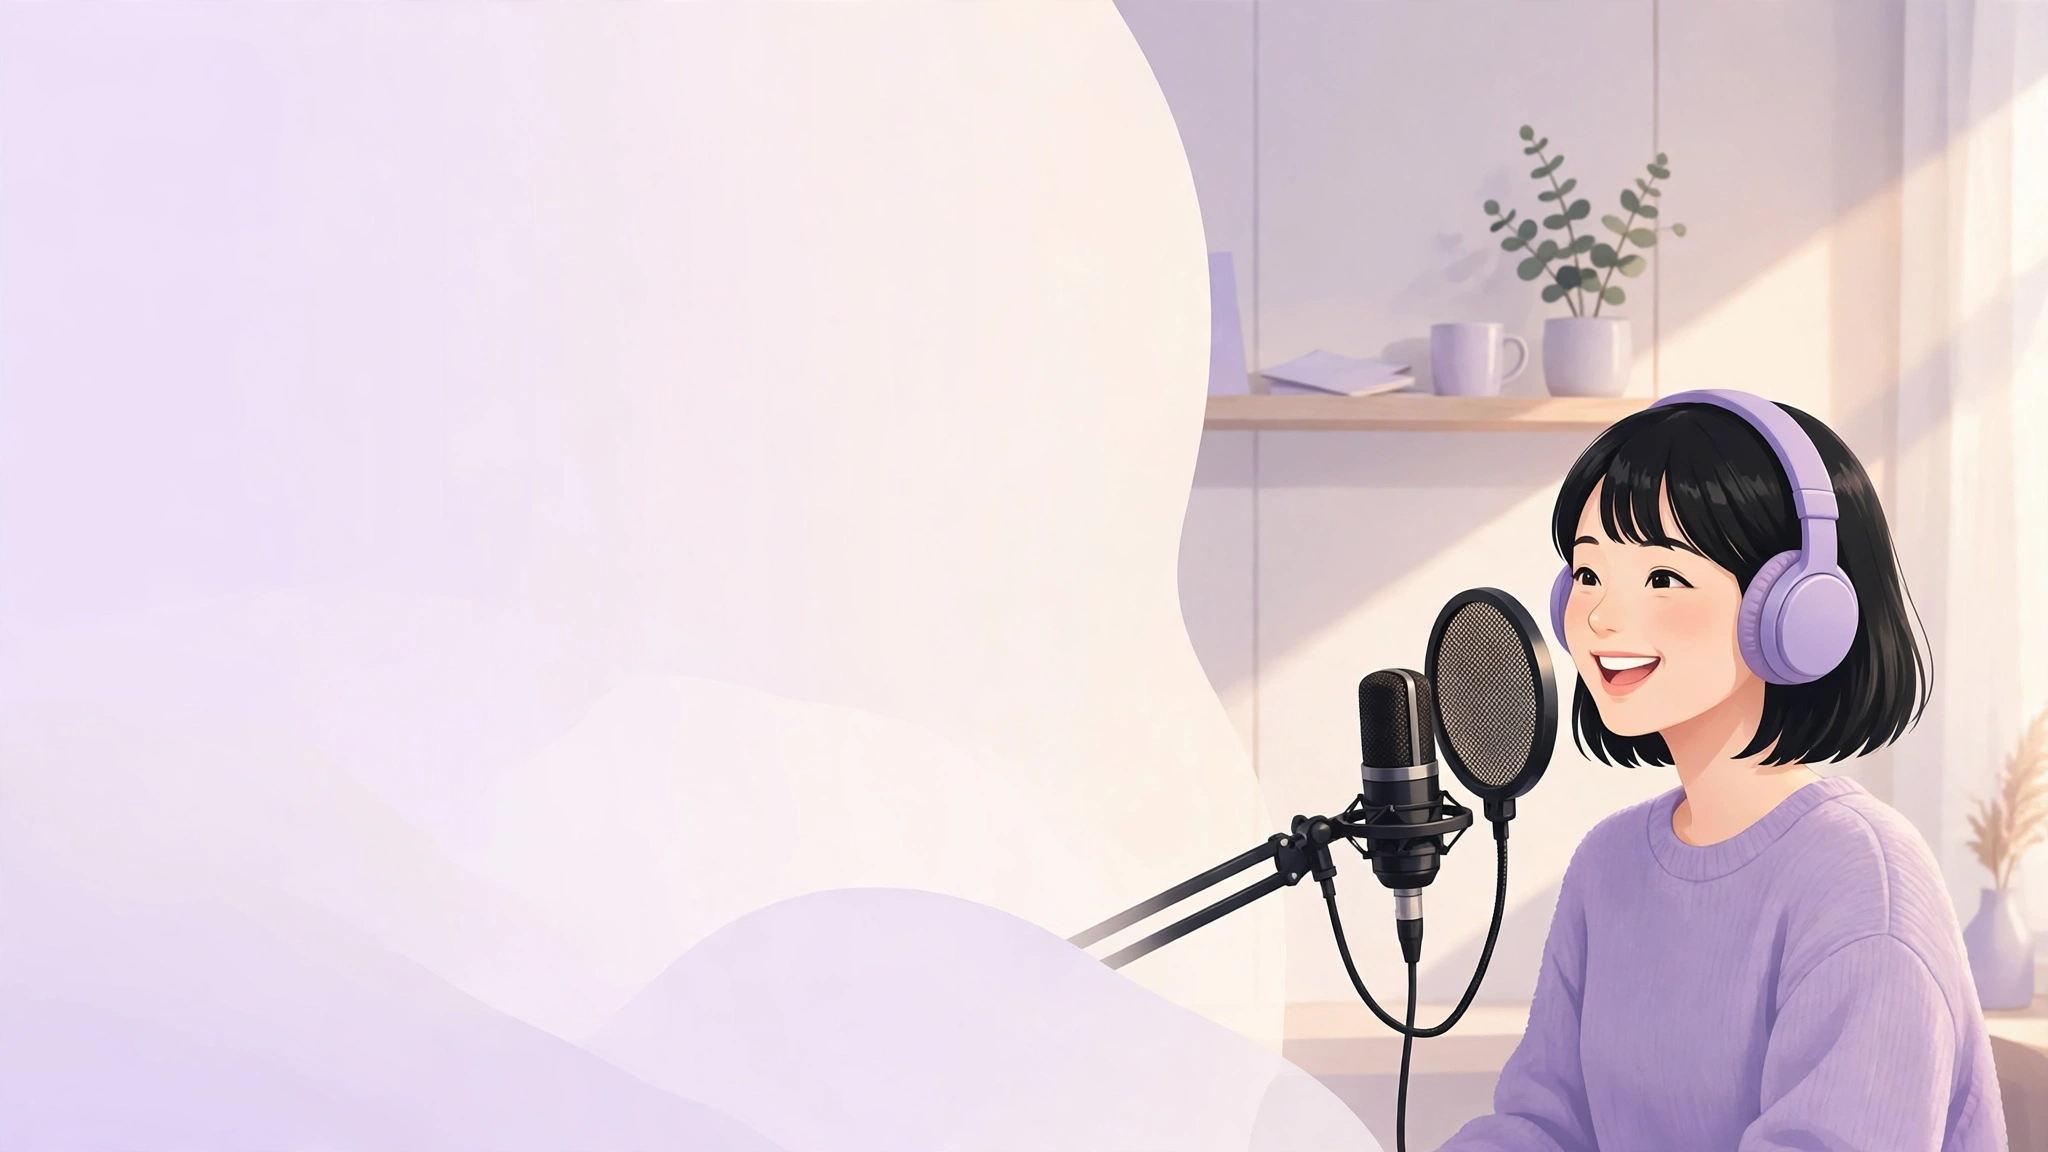
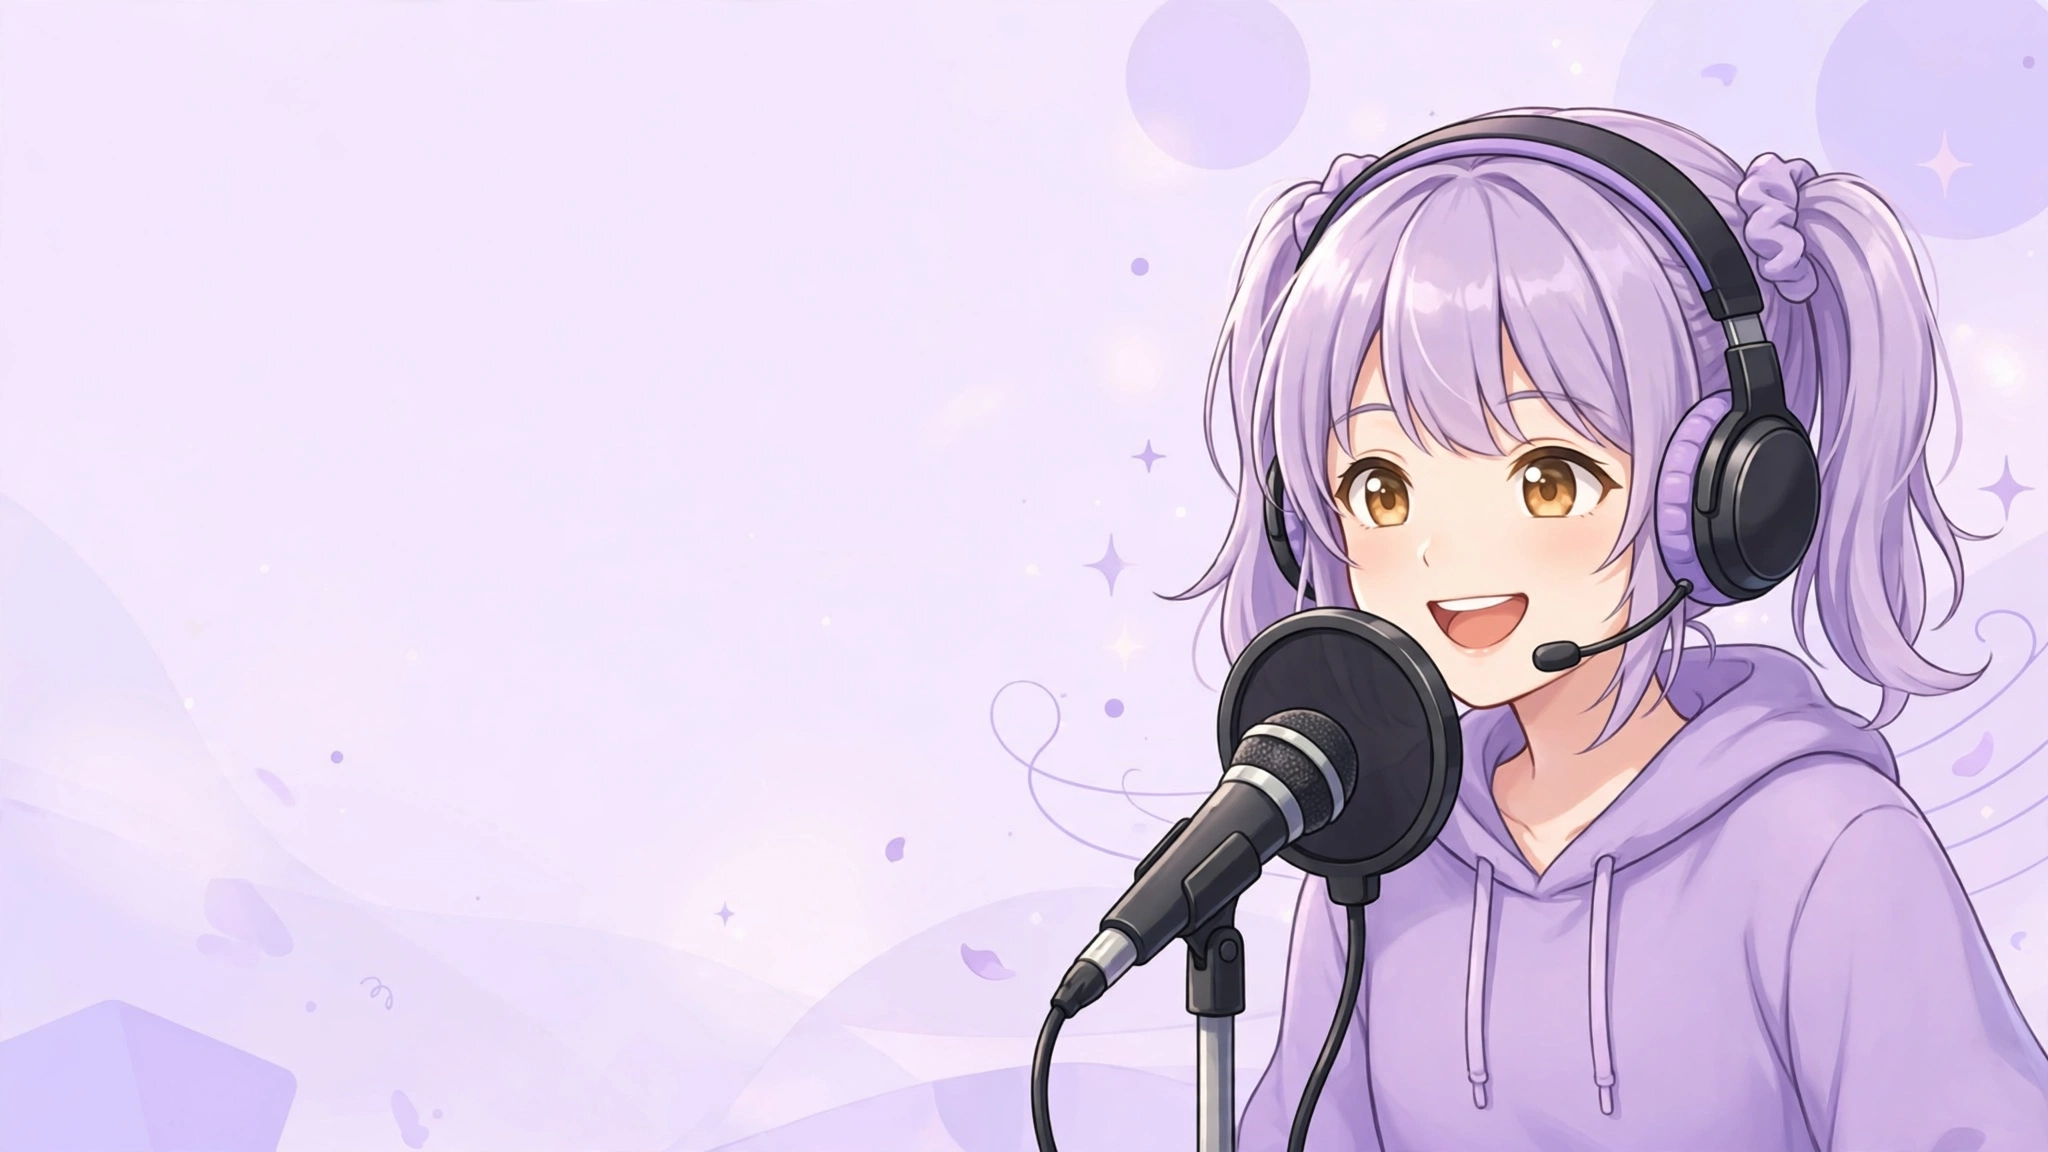
ヒーローバナーの画像をアニメキャラ版に差し替え

diff --git a/index.html b/index.html
@@ -1,6 +1,6 @@
 <!doctype html>
 <!-- BUILD: 2026-09-17-public-policy-cleanup -->
-<html lang="ja"><head><meta charset="utf-8"><meta name="voice-flea-release" content="2026.11.22-home-hero"><meta name="viewport" content="width=device-width,initial-scale=1,viewport-fit=cover"><title>声のフリマ</title>
+<html lang="ja"><head><meta charset="utf-8"><meta name="voice-flea-release" content="2026.11.22-home-hero-anime"><meta name="viewport" content="width=device-width,initial-scale=1,viewport-fit=cover"><title>声のフリマ</title>
 <style>
 :root{--bg:#f8f7ff;--card:#fff;--ink:#182033;--sub:#667085;--line:#e7e4f4;--brand:#6558ef;--brand2:#8b6df6;--pink:#f6d9ee;--blue:#dff2ff;--accent:#f0edff;--good:#087443;--bad:#b42318}*{box-sizing:border-box}body{margin:0;background:linear-gradient(180deg,#f3efff 0,#faf9ff 260px,#f8f7ff 100%);color:var(--ink);font-family:-apple-system,BlinkMacSystemFont,"Hiragino Sans",sans-serif}.app{max-width:440px;margin:auto;min-height:100vh;padding:16px 16px 260px}.brandwrap{display:flex;align-items:center;gap:11px;margin-top:16px}.brandicon{width:46px;height:46px;border-radius:16px;display:grid;place-items:center;font-size:24px;background:linear-gradient(145deg,#645df4,#9a63ef 58%,#d56ab9);box-shadow:0 10px 22px rgba(101,88,239,.24);position:relative}.brandicon:after{content:"✦";position:absolute;right:-5px;top:-8px;font-size:14px;color:#d56ab9;text-shadow:0 2px 8px rgba(213,106,185,.25)}.brandtext{min-width:0}.brand{font-size:30px;font-weight:950;letter-spacing:-.035em;background:linear-gradient(90deg,#282650,#5f58ef 56%,#a24e9b);-webkit-background-clip:text;background-clip:text;color:transparent;line-height:1.05} .tag{margin-top:7px;line-height:1.28;font-weight:900;letter-spacing:-.035em}.tag .line1{display:block;white-space:nowrap;font-size:12px;color:#3c3a62}.tag .line2{display:block;white-space:nowrap;font-size:13px;margin-top:3px;background:linear-gradient(90deg,#5f58ef,#9b4ca0);-webkit-background-clip:text;background-clip:text;color:transparent}.card{background:linear-gradient(180deg,rgba(255,255,255,.98),rgba(255,255,255,.94));border:1px solid var(--line);border-radius:20px;padding:15px;margin:12px 0;box-shadow:0 8px 24px rgba(73,57,130,.06)}.field{margin:12px 0}.field label{display:block;font-size:12px;font-weight:800;margin-bottom:6px}.field-req{display:inline-block;margin-left:6px;padding:1px 7px;border-radius:999px;background:#fdecec;color:var(--bad);font-size:10px;font-weight:900;vertical-align:1px}.field-opt{display:inline-block;margin-left:6px;padding:1px 7px;border-radius:999px;background:#eef0f4;color:var(--sub);font-size:10px;font-weight:800;vertical-align:1px}.field input,.field textarea,.field select{width:100%;border:1px solid var(--line);border-radius:12px;padding:12px;background:#fff;font-size:14px}.field textarea{min-height:82px}.btn{border:0;border-radius:13px;padding:12px 14px;font-weight:800;background:var(--brand);color:#fff}.btn.secondary{background:#fff;color:var(--brand);border:1px solid #cfd3ff}.btn.ghost{background:#eef0f4;color:#344054}.full{width:100%;margin-top:9px}.row{display:flex;gap:8px;align-items:center;justify-content:space-between}.small{font-size:11px;color:var(--sub)}.pill{display:inline-block;background:linear-gradient(135deg,#f0edff,#edf6ff);color:#4f46c8;padding:5px 8px;border-radius:999px;font-size:10px;margin:4px 3px 0 0}.price{font-weight:900}.hero{position:relative;overflow:hidden;margin-top:16px;background:linear-gradient(135deg,#5f5af4 0%,#7f61f5 52%,#b660b3 100%);color:#fff;padding:22px;border-radius:24px;box-shadow:0 14px 32px rgba(101,88,239,.24)}.hero:after{content:"";position:absolute;width:150px;height:150px;border-radius:50%;right:-55px;top:-65px;background:rgba(255,255,255,.14)}.hero:before{content:"";position:absolute;width:90px;height:90px;border-radius:50%;left:-30px;bottom:-40px;background:rgba(255,255,255,.1)}.hero h1{position:relative;z-index:1;font-size:23px;line-height:1.4;margin:0}.hero p{position:relative;z-index:1}.hero p{font-size:12px;opacity:.92}.nav{position:fixed;bottom:0;left:50%;transform:translateX(-50%);width:min(440px,100%);display:grid;grid-template-columns:repeat(2,minmax(0,1fr));grid-template-rows:repeat(3,52px);gap:6px;background:rgba(255,255,255,.98);border-top:1px solid var(--line);padding:8px 10px calc(8px + env(safe-area-inset-bottom));z-index:5;box-shadow:0 -8px 24px rgba(24,32,51,.06);overflow:hidden}.nav button{border:1px solid #d9dcff;background:#f1f2ff;color:#4d56b8;font-size:15px;font-weight:800;border-radius:14px;min-height:52px;padding:8px 8px;touch-action:manipulation;width:100%;min-width:0;box-shadow:0 2px 8px rgba(91,103,241,.08)}.nav button.on{background:linear-gradient(145deg,#5b67f1,#7c5cf5);color:#fff;border-color:transparent;font-weight:900;box-shadow:0 6px 14px rgba(91,103,241,.24)}.page{display:none}.page.on{display:block}.notice,.ok,.err{font-size:12px;padding:11px;border-radius:12px;margin-top:10px}.notice{background:#fff8e8;color:#805600}.ok{background:#ecfdf3;color:#087443}.err{background:#fef3f2;color:#b42318}.hide{display:none}.voice audio{width:100%;margin-top:8px;height:36px}.topbar{display:flex;justify-content:space-between;align-items:flex-start;gap:10px}.topbar .status{margin-top:18px;flex:0 0 auto}.status{font-size:10px;padding:7px 10px;border-radius:99px;background:#eef0f4;font-weight:800;border:1px solid #e4e7ec}.status.live{background:linear-gradient(135deg,#ecfdf3,#f3fff8);color:#087443;border-color:#c9efdc}.nav button{position:relative}.badge{display:none;position:absolute;top:4px;right:12px;min-width:17px;height:17px;padding:0 5px;border-radius:999px;background:#e11d48;color:#fff;font-size:10px;line-height:17px;font-weight:900}.badge.show{display:block}.appbox{border:1px solid #f0d4da;background:#fff7f8;border-radius:13px;padding:11px;margin-top:10px}.appmsg{font-size:12px;line-height:1.6;margin:7px 0}.appactions{display:flex;gap:7px;margin-top:8px}.appactions .btn{flex:1;padding:9px 8px;font-size:11px}.btn.reject{background:#fff;color:#b42318;border:1px solid #f0b7b0}.countbadge{display:inline-block;background:#e11d48;color:#fff;border-radius:999px;padding:4px 8px;font-size:10px;font-weight:900;margin-top:8px}.chatlist{display:grid;gap:10px}.chatrow{background:#fff;border:1px solid var(--line);border-radius:16px;padding:13px}.chathead{display:flex;justify-content:space-between;gap:8px;align-items:center}.chatbox{display:none}.chatbox.on{display:block}.chatmessages{display:flex;flex-direction:column;gap:8px;max-height:46vh;overflow:auto;padding:8px 0}.bubble{max-width:82%;padding:9px 11px;border-radius:15px;font-size:12px;line-height:1.55;white-space:pre-wrap;word-break:break-word}.mine{align-self:flex-end;background:var(--brand);color:#fff;border-bottom-right-radius:5px}.theirs{align-self:flex-start;background:#eef0f4;color:var(--ink);border-bottom-left-radius:5px}.chatcomposer{display:flex;gap:8px;margin-top:10px}.chatcomposer textarea{flex:1;min-height:44px;max-height:100px;border:1px solid var(--line);border-radius:12px;padding:10px;font-size:14px}.chatcomposer .btn{align-self:flex-end}.unread-dot{display:inline-flex;align-items:center;justify-content:center;min-width:20px;height:20px;padding:0 6px;border-radius:999px;background:#e11d48;color:#fff;font-size:10px;font-weight:900}
 
